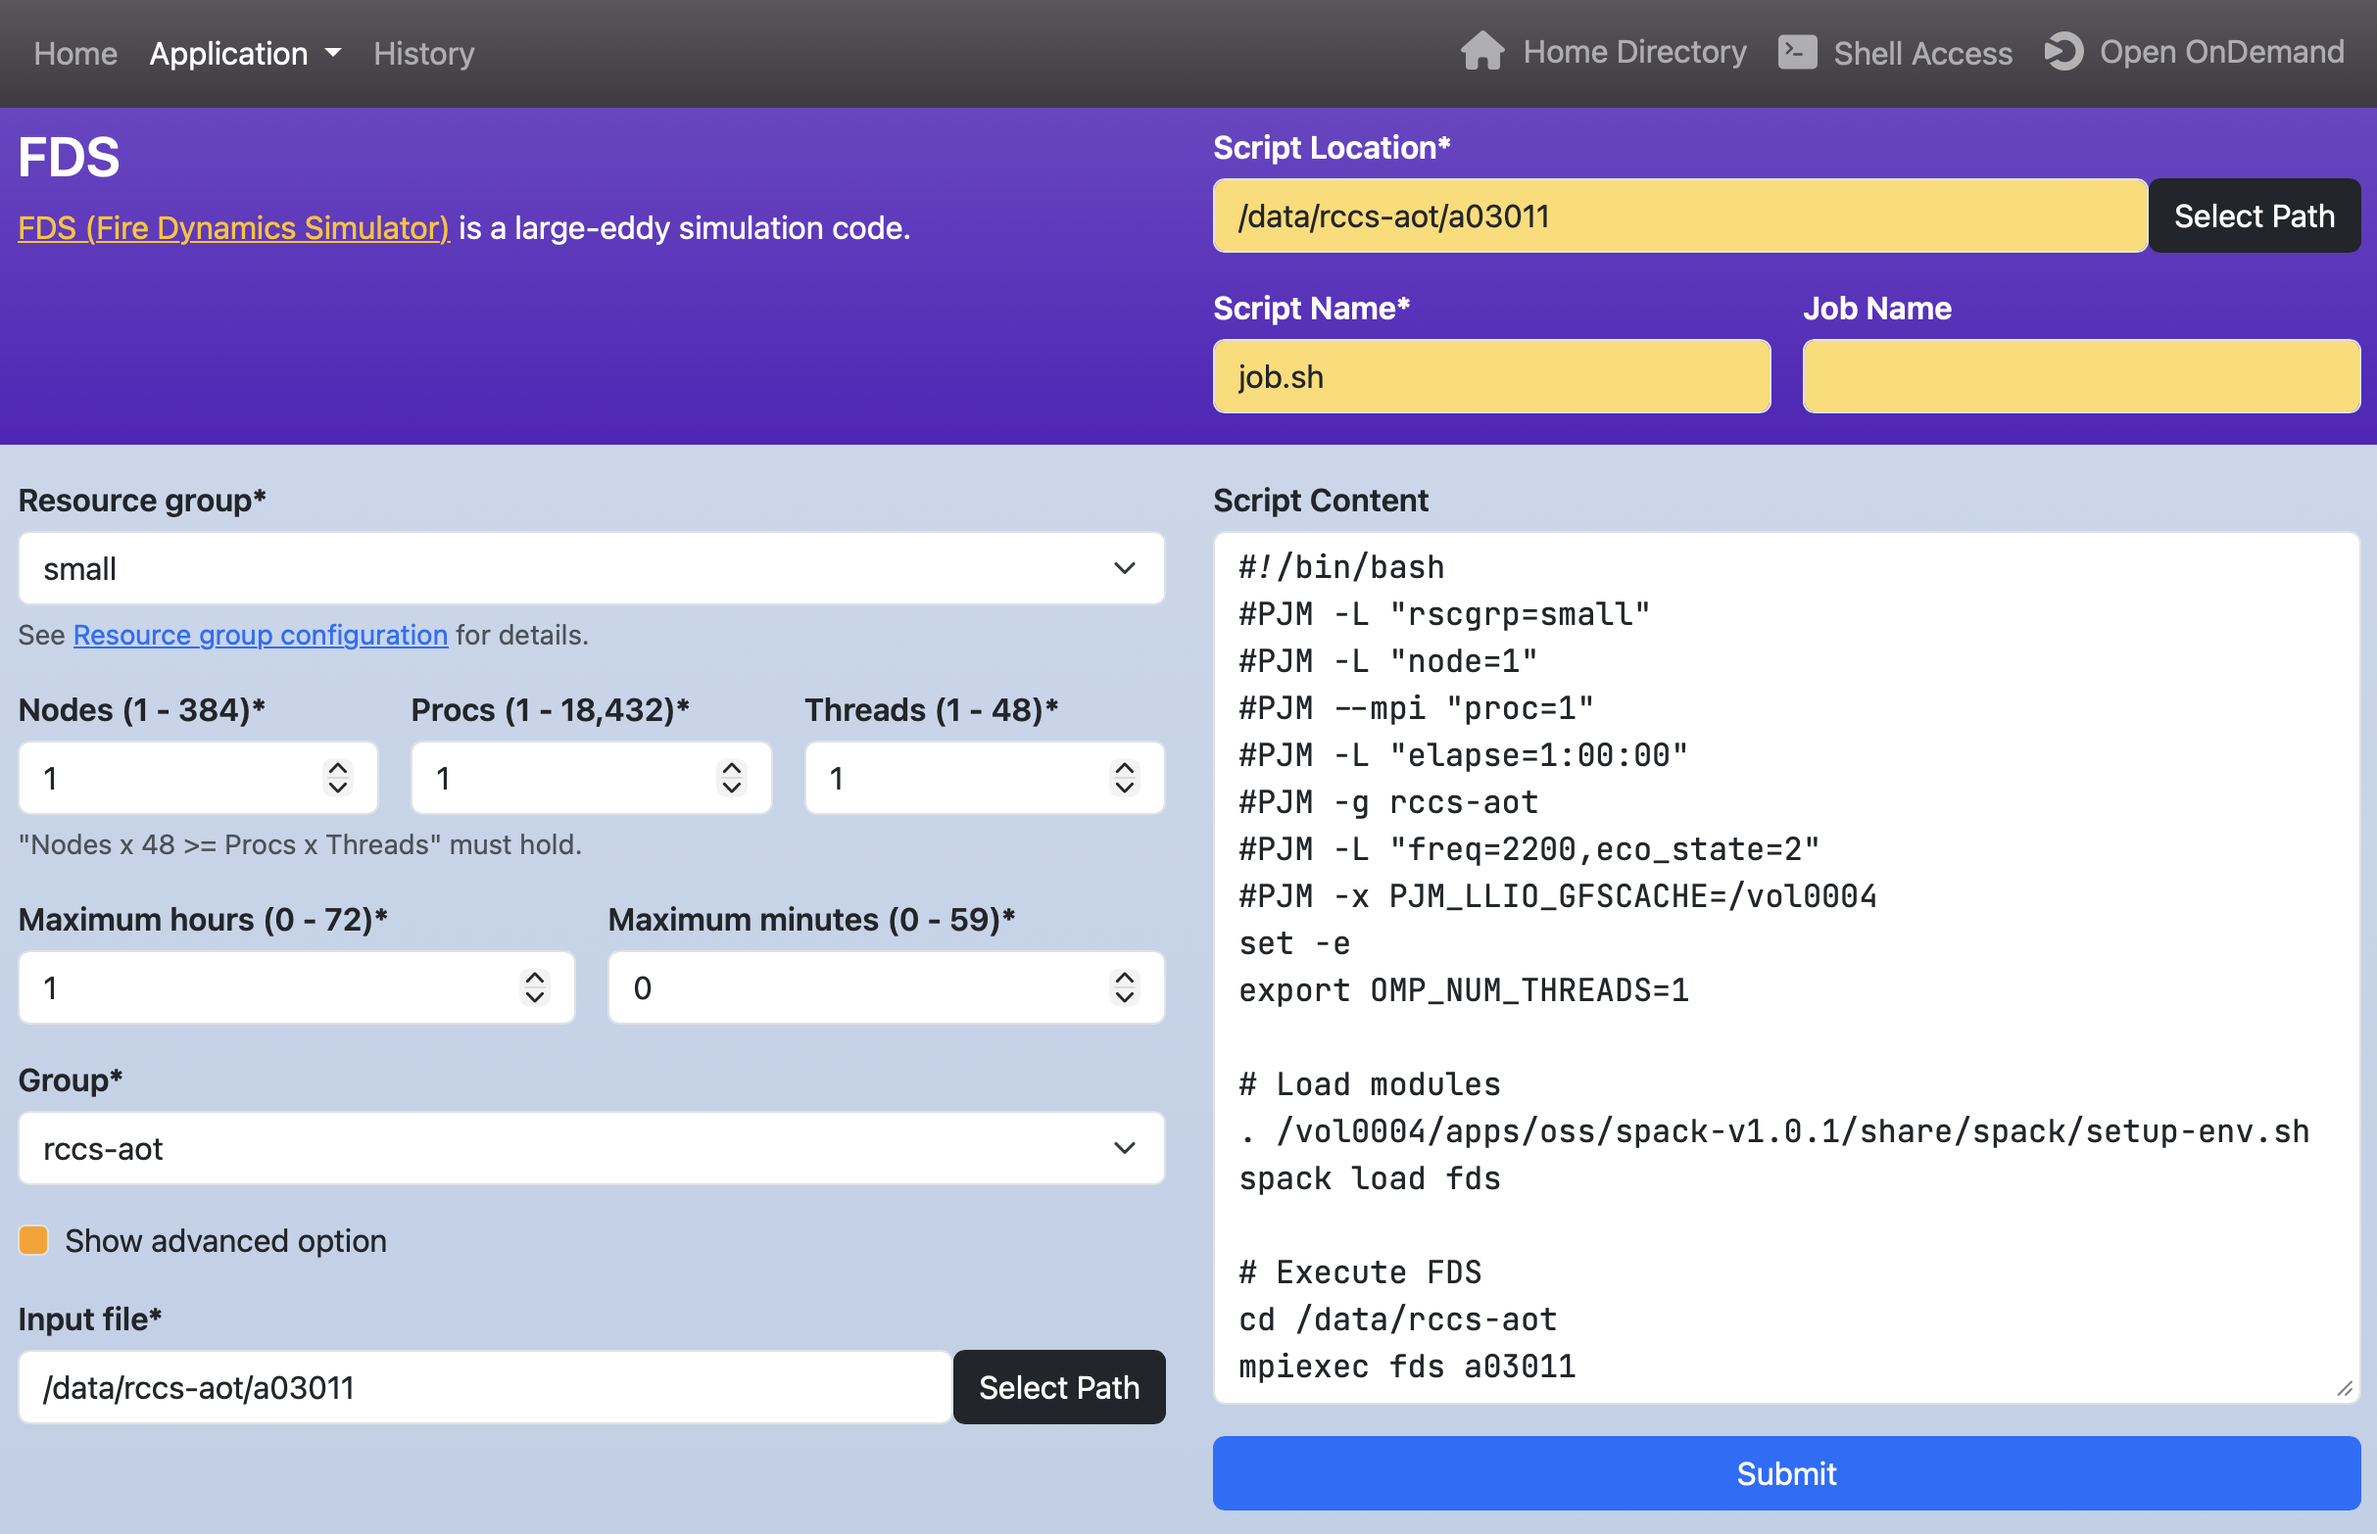
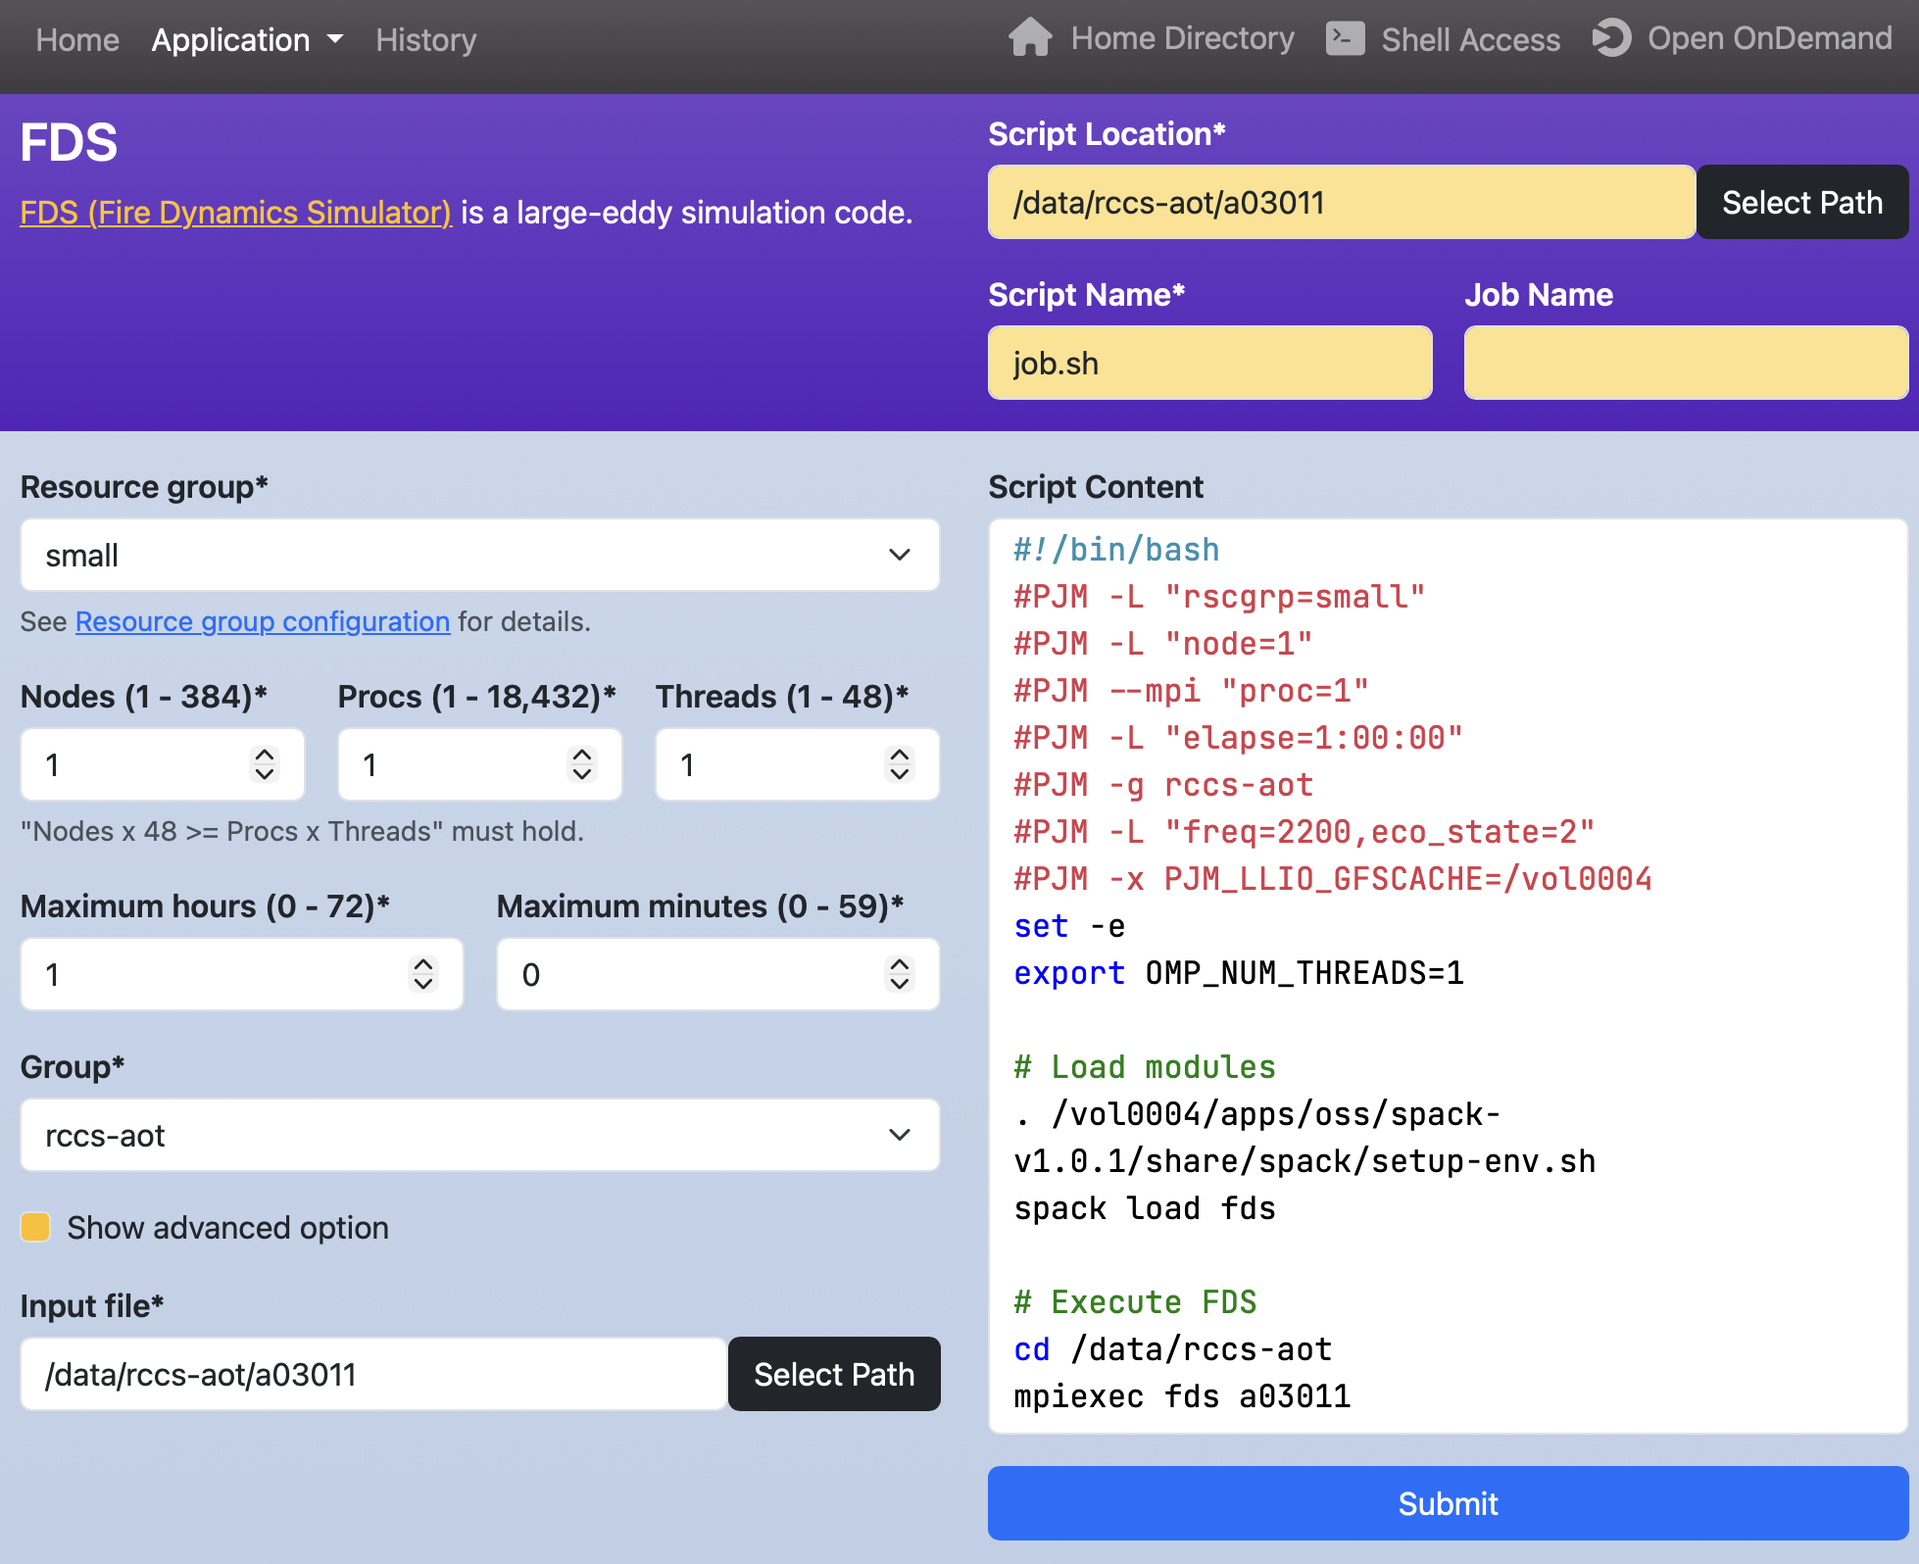
Fix manual for Open Composer 2.0

diff --git a/docs/batch_ja.html b/docs/batch_ja.html
@@ -75,12 +75,16 @@
       それらの動作を行うためには、表の左端の列にある対応するチェックボックスをオンにする必要があります。
       </p>
       <p>
-      右上にあるテキストエリアとラジオボタンは、表に表示されるジョブをフィルタリングするために使用します。
-      「Filter」に文字列を入力すると、その文字列に関係するジョブだけが表示されます。
-      「All」、「Running」、「Queued」、「Completed」、「Failed」のラジオボタンはジョブの状態を表しており、その状態のジョブだけが表示されます。
-     「Fugaku」と「Prepost」のラジオボタンは、それぞれのシステムに投入したジョブだけが表示されます。
+        右上にあるテキストエリアとチェックボックスは、表に表示されるジョブをフィルタリングするために使用します。
+        テキストエリアに文字列を入力すると、その文字列に関係するジョブだけが表示されます。
+        「Queued」、「Running」、「Completed」、「Failed」のチェックボックスを選択すると、その状態のジョブだけが表示されます。
+        「Fugaku」と「Prepost」のラジオボタンは、それぞれのシステムに投入したジョブだけが表示されます。
       </p>
       <img width="600" alt="Histroy Page" src="img/history.png">
+      <p>
+        「Detail」ボタンをクリックすると、「AND/OR検索」、「特定項目に限定した検索」、「時間範囲の指定」といった、より詳細な条件での検索が可能です。
+      </p>
+      <img width="600" alt="Histroy Page" src="img/history_detail.png">
       <p>
       「Job ID」列のリンクをクリックすると、ジョブスケジューラから取得されたプロファイリング情報が表示されます。
       </p>

diff --git a/docs/batch.html b/docs/batch.html
@@ -81,9 +81,16 @@
         The "Cancel Job" and "Delete Info" buttons at the top-left are used to cancel a running job or delete a job entry from the table, respectively. To use these buttons, check the checkbox in the leftmost column of the job row.
       </p>
       <p>
-        The text input and radio buttons at the top-right are used to filter jobs shown in the table. Entering text in the "Filter" field narrows the list to jobs that include that text. The "All", "Running", "Queued", "Completed", and "Failed" radio buttons filter by job status. The "Fugaku" and "Prepost" radio buttons filter jobs by system.
+        The text area and checkboxes in the upper right corner are used to filter the jobs displayed in the table.
+        Entering a string in the text area will display only jobs related to that string.
+        Selecting the "Queued," "Running," "Completed," or "Failed" checkboxes will display only jobs in that state.
+        The "Fugaku" and "Prepost" radio buttons will display only jobs submitted to their respective systems.
       </p>
       <img width="600" alt="History Page" src="img/history.png">
+      <p>
+        Clicking the "Detail" button allows you to perform more detailed searches, such as "AND/OR search," "search limited to specific items," and "specify time range."
+      </p>
+      <img width="600" alt="Histroy Page" src="img/history_detail.png">
       <p>
         Clicking the link in the "Job ID" column shows profiling data retrieved from the job scheduler.
       </p>
